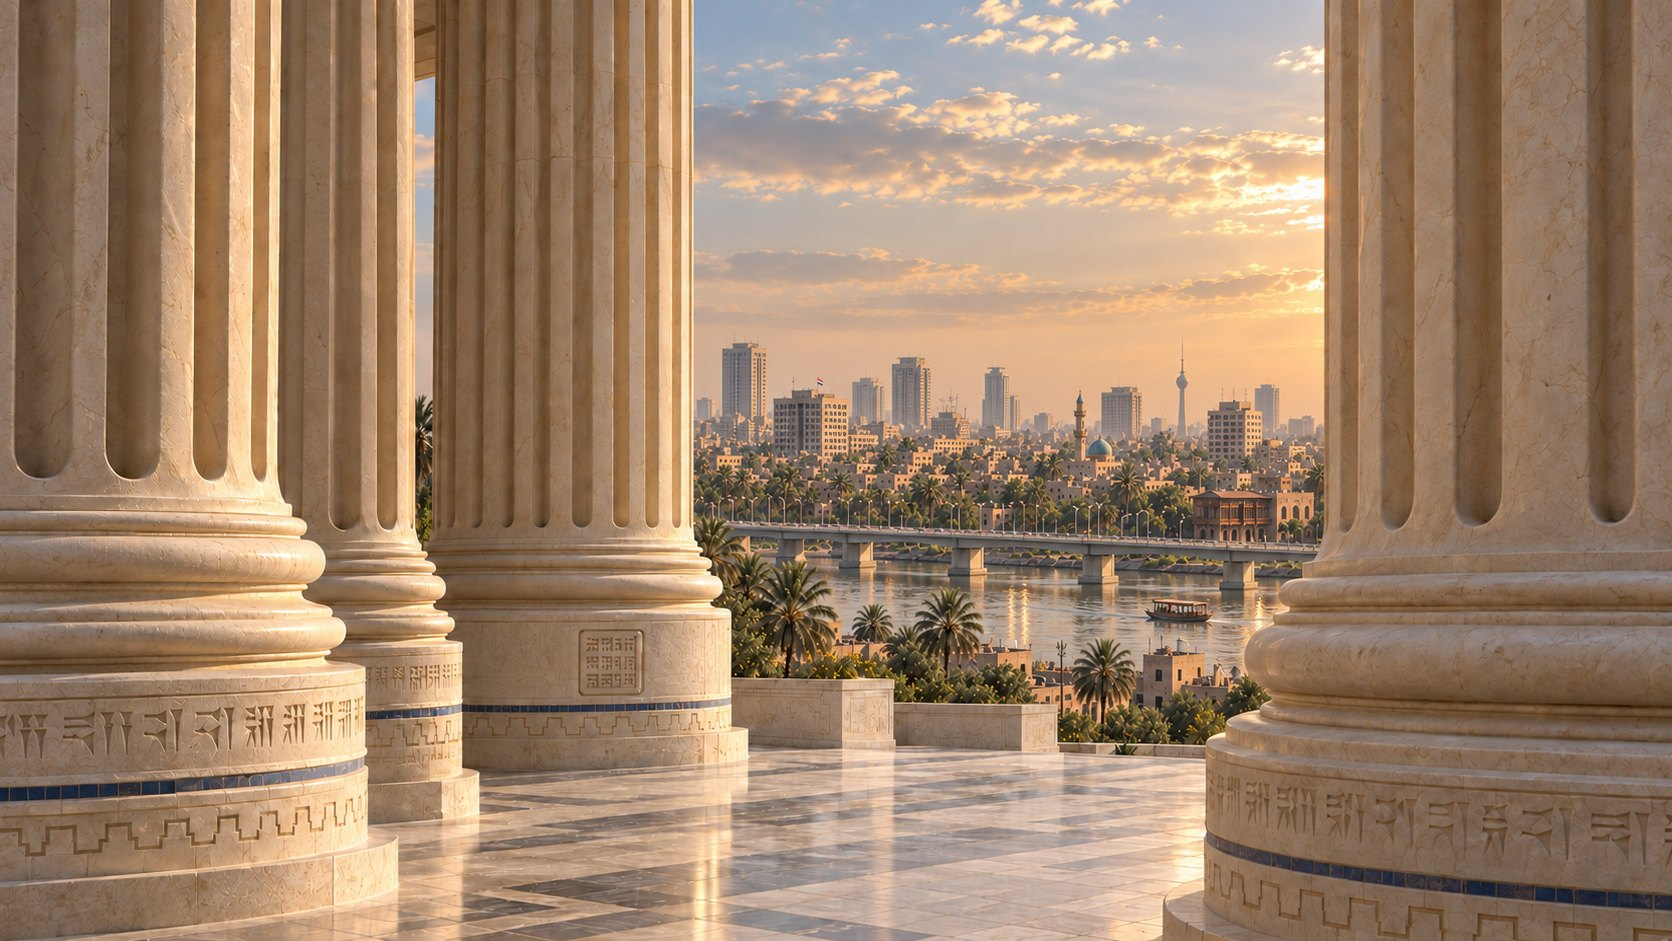
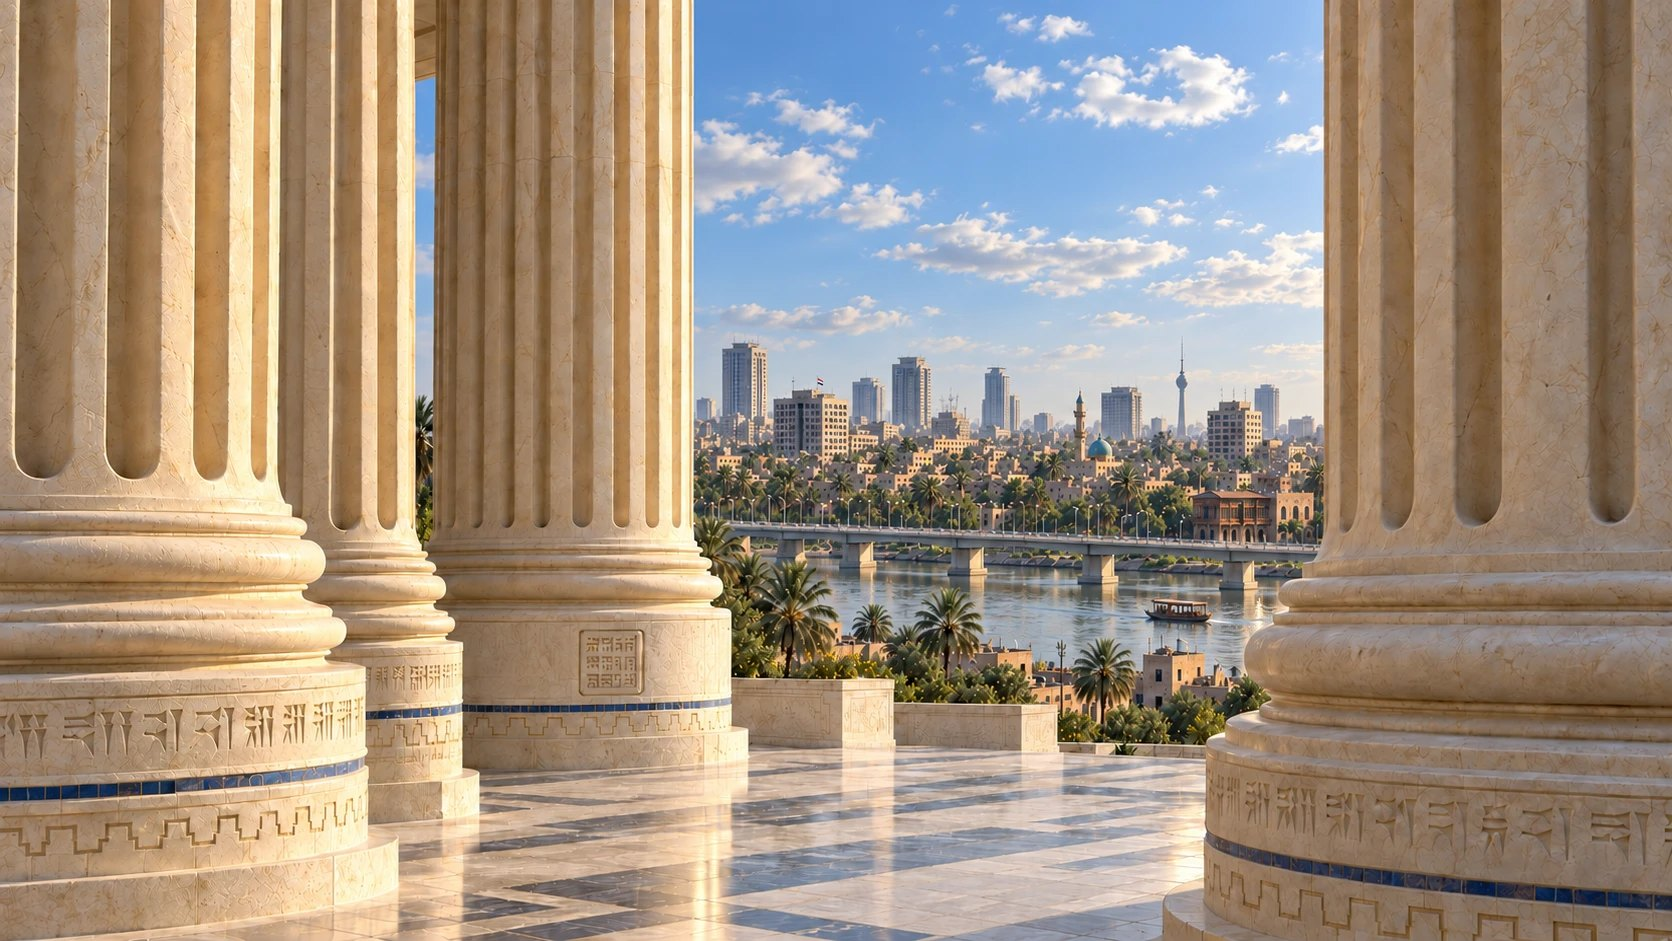
Section 2, settled: the original entrance, re-lit
Same picture, same soul - the fluted columns with cuneiform carved into their bases,
the lapis meander in the floor, the Tigris and its bridge, Baghdad with its minaret
and tower behind - now under a real afternoon sky instead of a sunset grade. Measured:
warmth R-B 31.7 against 51.6 for the sunset version, with the blue sky and true stone
colour that says "time of day" rather than "filter". Composition, headline and text
pool unchanged; the pool is our legibility layer and stays.

Phones get their own crop, the left 38% of the frame: three columns with their
cuneiform bases and the meander band, palms between them, no tower. The wide frame at
portrait width used to show sky and city and none of the history.

The sunset original is kept in the ignored candidates folder. The file is still a
1672px preview export; the path holds when a full-size render exists.

diff --git a/css/style.css b/css/style.css
@@ -94,7 +94,7 @@ img{max-width:100%; display:block}
 }
 .hero .bg{
   position:absolute; inset:0; z-index:-2;
-  background:url("../assets/hero-baghdad.jpg") center 40%/cover no-repeat;
+  background:url("../assets/hero-baghdad.jpg?v=2") center 45%/cover no-repeat;
   animation:kenburns 26s var(--ease) both;
   transform-origin:60% 45%;
 }
@@ -718,6 +718,7 @@ a.ch-v:hover{border-bottom-color:var(--gold-2); color:var(--gold-2)}
 @media (max-width:860px){
   .hero{min-height:100svh}
   .hero .inner{padding-block:clamp(110px,22vh,150px) clamp(70px,12vh,110px); max-width:none}
+  .hero .bg{background-image:url("../assets/hero-baghdad-phone.jpg?v=2"); background-position:center 60%}   /* the columns, not the sky: a wide frame at portrait shows only city */
   .hero .veil{background:
     radial-gradient(135% 70% at 50% 46%, rgba(23,21,15,.86) 0%, rgba(23,21,15,.7) 42%,
       rgba(23,21,15,.34) 70%, rgba(23,21,15,.06) 92%, rgba(23,21,15,0) 100%),

diff --git a/index.html b/index.html
@@ -8,7 +8,7 @@
 <link rel="preconnect" href="https://fonts.googleapis.com">
 <link rel="preconnect" href="https://fonts.gstatic.com" crossorigin>
 <link href="https://fonts.googleapis.com/css2?family=Cormorant+Garamond:ital,wght@0,400;0,500;0,600;1,400&family=Noto+Kufi+Arabic:wght@400;500;600&family=Source+Sans+3:wght@400;600&display=swap" rel="stylesheet">
-<link rel="stylesheet" href="css/style.css?v=30286a69">
+<link rel="stylesheet" href="css/style.css?v=aea5fb4a">
 </head>
 <body>
 
